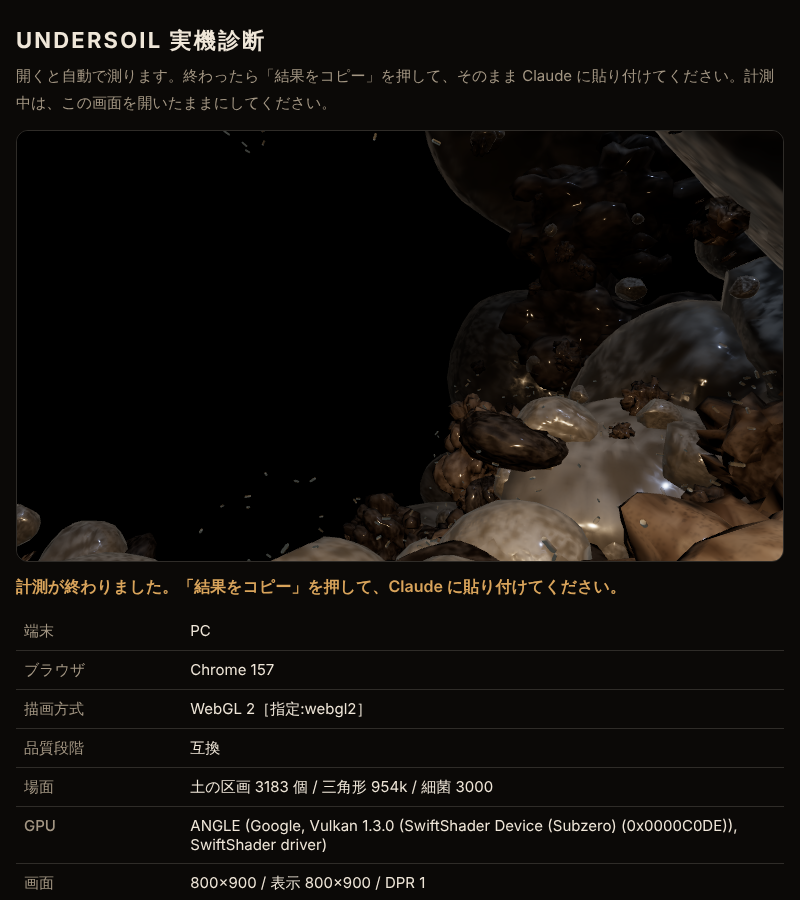
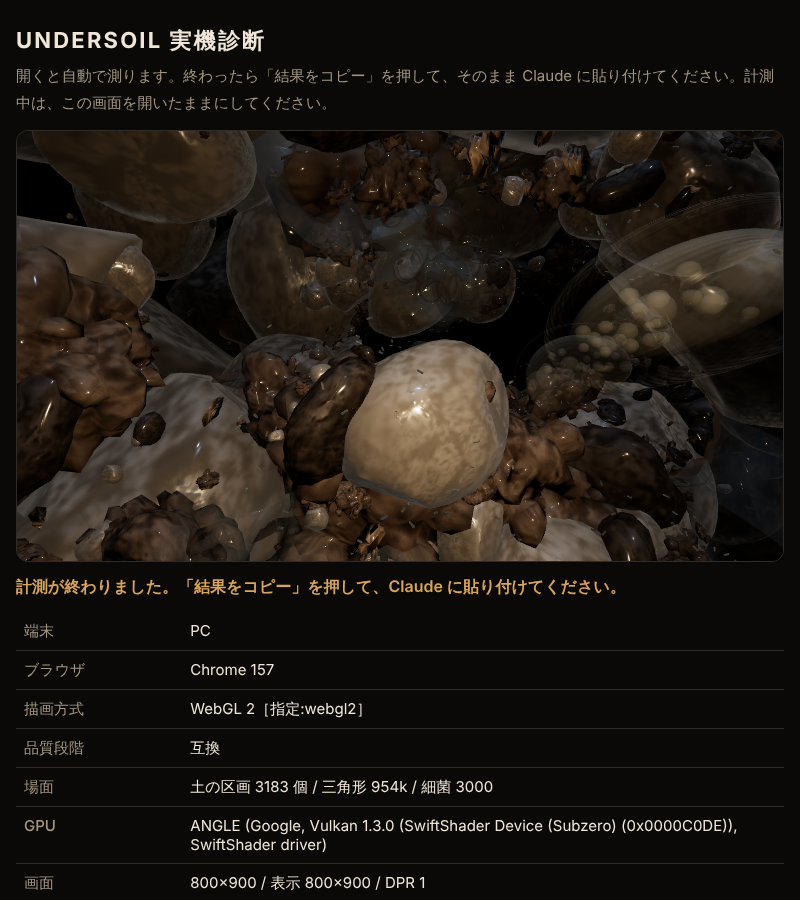
UNDERSOIL: make audio audible on iPad (silent-mode unlock, speaker-range sounds, louder, start chord), diag sound button, keep tour out of unbuilt seed area
Claude-Session: https://claude.ai/code/session_01HXHWaeyj425ipGMnohy3Vo

diff --git a/undersoil/src/audio/engine.ts b/undersoil/src/audio/engine.ts
@@ -42,6 +42,23 @@ function reverbBuffer(ctx: AudioContext, sec: number, damp: number) {
   return buf;
 }
 
+/** iPhone・iPad の Safari では、Web Audio の音は消音モードのときに鳴らない。
+ *  音声セッションの種類を「再生」にすると、消音モードでも鳴る（動画アプリと同じ扱い）。古い OS 向けに、無音の <audio> を流す方法も併用する。 */
+let unlocked = false;
+function unlockIOS() {
+  if (unlocked) return; unlocked = true;
+  try { const as = (navigator as unknown as { audioSession?: { type: string } }).audioSession; if (as) as.type = 'playback'; } catch { /* noop */ }
+  try {
+    // 0.1 秒の無音の WAV（その場で作る）を、くり返し再生する
+    const sr = 8000, n = 800, buf = new ArrayBuffer(44 + n * 2), v = new DataView(buf);
+    const w = (o: number, s: string) => { for (let i = 0; i < s.length; i++) v.setUint8(o + i, s.charCodeAt(i)); };
+    w(0, 'RIFF'); v.setUint32(4, 36 + n * 2, true); w(8, 'WAVE'); w(12, 'fmt '); v.setUint32(16, 16, true); v.setUint16(20, 1, true); v.setUint16(22, 1, true);
+    v.setUint32(24, sr, true); v.setUint32(28, sr * 2, true); v.setUint16(32, 2, true); v.setUint16(34, 16, true); w(36, 'data'); v.setUint32(40, n * 2, true);
+    const el = document.createElement('audio'); el.src = URL.createObjectURL(new Blob([buf], { type: 'audio/wav' })); el.loop = true; el.setAttribute('playsinline', ''); el.volume = 0.01;
+    void el.play().catch(() => { /* 対応していない場合は何もしない */ });
+  } catch { /* noop */ }
+}
+
 export function createAudio(): AudioEngine {
   let ctx: AudioContext | null = null;
   let master: GainNode, music: GainNode, sfx: GainNode, verb: ConvolverNode, verbIn: GainNode;
@@ -50,38 +67,41 @@ export function createAudio(): AudioEngine {
   const api: AudioEngine = {
     muted: false,
     start() {
+      unlockIOS();
       if (ctx) { void ctx.resume(); return; }
       const AC = window.AudioContext ?? (window as unknown as { webkitAudioContext: typeof AudioContext }).webkitAudioContext; if (!AC) return;
       ctx = new AC();
-      master = ctx.createGain(); master.gain.value = api.muted ? 0 : 0.9;
+      master = ctx.createGain(); master.gain.value = api.muted ? 0 : 1.0;
       // 小さな音量でも大事な音が聞こえるように、全体を軽く圧縮する
-      const comp = ctx.createDynamicsCompressor(); comp.threshold.value = -20; comp.ratio.value = 3; comp.attack.value = 0.01; comp.release.value = 0.3;
+      const comp = ctx.createDynamicsCompressor(); comp.threshold.value = -24; comp.ratio.value = 4; comp.attack.value = 0.01; comp.release.value = 0.3;
       master.connect(comp).connect(ctx.destination);
       verb = ctx.createConvolver(); verb.buffer = reverbBuffer(ctx, 3.2, 0.25); verbIn = ctx.createGain(); verbIn.gain.value = 0.5; verbIn.connect(verb).connect(master);
-      music = ctx.createGain(); music.gain.value = 0.55; music.connect(master); music.connect(verbIn);
-      sfx = ctx.createGain(); sfx.gain.value = 0.8; sfx.connect(master); sfx.connect(verbIn);
+      music = ctx.createGain(); music.gain.value = 0.9; music.connect(master); music.connect(verbIn);
+      sfx = ctx.createGain(); sfx.gain.value = 1.0; sfx.connect(master); sfx.connect(verbIn);
       // 土の中の音は、地面を通して聞こえるので高い音が削れる
-      under = ctx.createBiquadFilter(); under.type = 'lowpass'; under.frequency.value = 1400; under.Q.value = 0.3; under.connect(master);
+      under = ctx.createBiquadFilter(); under.type = 'lowpass'; under.frequency.value = 2600; under.Q.value = 0.3; under.connect(master);
       const loop = (buf: AudioBuffer, gain: number, dest: AudioNode, rate = 1) => { const s = ctx!.createBufferSource(); s.buffer = buf; s.loop = true; s.playbackRate.value = rate; const g = ctx!.createGain(); g.gain.value = gain; s.connect(g).connect(dest); s.start(); return g; };
       const brown = noiseBuffer(ctx, 6, 'brown'), pink = noiseBuffer(ctx, 5, 'pink'), white = noiseBuffer(ctx, 4, 'white');
       // 乾いた土：頭上を渡るくぐもった風（低い帯域の雑音が、ゆっくり強弱する）
       dryBed = ctx.createGain(); dryBed.gain.value = 0; dryBed.connect(under);
-      windBp = ctx.createBiquadFilter(); windBp.type = 'bandpass'; windBp.frequency.value = 320; windBp.Q.value = 0.6; windBp.connect(dryBed);
-      loop(brown, 0.9, windBp);
+      windBp = ctx.createBiquadFilter(); windBp.type = 'bandpass'; windBp.frequency.value = 700; windBp.Q.value = 0.5; windBp.connect(dryBed);
+      loop(pink, 1.4, windBp);
       // 湿った土：頭上から響く、くぐもった雨のような水の気配
       wetBed = ctx.createGain(); wetBed.gain.value = 0; wetBed.connect(under);
-      rainLp = ctx.createBiquadFilter(); rainLp.type = 'lowpass'; rainLp.frequency.value = 700; rainLp.connect(wetBed);
-      loop(pink, 0.35, rainLp);
+      rainLp = ctx.createBiquadFilter(); rainLp.type = 'lowpass'; rainLp.frequency.value = 1800; rainLp.connect(wetBed);
+      loop(pink, 0.5, rainLp);
       // 地上：風と、葉ずれ（高めの帯域の雑音）
       surfBed = ctx.createGain(); surfBed.gain.value = 0; surfBed.connect(master);
-      const surfWind = ctx.createBiquadFilter(); surfWind.type = 'lowpass'; surfWind.frequency.value = 600; surfWind.connect(surfBed); loop(brown, 0.5, surfWind, 1.3);
-      leafBp = ctx.createBiquadFilter(); leafBp.type = 'bandpass'; leafBp.frequency.value = 3800; leafBp.Q.value = 0.8; leafBp.connect(surfBed); loop(white, 0.05, leafBp);
+      const surfWind = ctx.createBiquadFilter(); surfWind.type = 'bandpass'; surfWind.frequency.value = 800; surfWind.Q.value = 0.4; surfWind.connect(surfBed); loop(pink, 0.9, surfWind, 1.0);
+      // 開始の合図：鳴っていることがすぐ分かるように、静かな和音を1つ
+      setTimeout(() => { if (ctx) [293.66, 440, 587.33].forEach((f, i) => piano(f, ctx!.currentTime + 0.05 + i * 0.12, 0.22, 5)); }, 300);
+      leafBp = ctx.createBiquadFilter(); leafBp.type = 'bandpass'; leafBp.frequency.value = 3800; leafBp.Q.value = 0.8; leafBp.connect(surfBed); loop(white, 0.09, leafBp);
     },
     setVitality(v) { vit = v; },
     setMode(m) { if (m !== mode) { mode = m; growth = 0; chordDone = false; } },
     setGrowth(g) { growth = g; },
     pause(p) { if (!ctx) return; if (p) void ctx.suspend(); else void ctx.resume(); },
-    setMuted(m) { api.muted = m; if (ctx) master.gain.setTargetAtTime(m ? 0 : 0.9, ctx.currentTime, 0.1); },
+    setMuted(m) { api.muted = m; if (ctx) master.gain.setTargetAtTime(m ? 0 : 1.0, ctx.currentTime, 0.1); },
     chime() {
       // 新しい生き物の紹介：短く上品な2音（鐘のような倍音）
       if (!ctx) return; const t = ctx.currentTime;
@@ -93,8 +113,8 @@ export function createAudio(): AudioEngine {
       gust += dt * 0.13;
       const gustAmt = 0.55 + 0.45 * Math.sin(gust) * Math.sin(gust * 0.37 + 1);
       dryBed.gain.setTargetAtTime(soil * (1 - vit) * 0.5 * gustAmt + 0.0001, t, 0.4);
-      windBp.frequency.setTargetAtTime(240 + 260 * gustAmt, t, 0.6);
-      wetBed.gain.setTargetAtTime(soil * vit * 0.28 + 0.0001, t, 0.6);
+      windBp.frequency.setTargetAtTime(500 + 600 * gustAmt, t, 0.6);
+      wetBed.gain.setTargetAtTime(soil * vit * 0.32 + 0.0001, t, 0.6);
       surfBed.gain.setTargetAtTime((1 - soil) * (0.22 + 0.2 * gustAmt) + 0.0001, t, 0.8);
       leafBp.frequency.setTargetAtTime(3200 + 1600 * gustAmt, t, 0.5);
       if (soil) {

diff --git a/undersoil/src/pages/diag.ts b/undersoil/src/pages/diag.ts
@@ -98,6 +98,12 @@ async function main() {
     ($('copy') as HTMLButtonElement).disabled = false;
     W.__state = { ready: true, done: true, isWebGPU, short, errors };
   }
+  // 音の確認：押すと和音が鳴る。鳴らない場合の原因を切り分けるため、状態を表示する
+  $('snd').addEventListener('click', async () => {
+    const { createAudio } = await import('../audio/engine');
+    const a = (W.__audio as ReturnType<typeof createAudio>) ?? createAudio(); W.__audio = a; a.start(); a.chime();
+    setTimeout(() => { const as = (navigator as unknown as { audioSession?: { type: string } }).audioSession; $('sndState').textContent = `音声：${(a as unknown as { state?: string }).state ?? '開始'}／音声セッション：${as ? as.type : '非対応'}`; }, 600);
+  });
   $('copy').addEventListener('click', async () => {
     const ta = $('short') as HTMLTextAreaElement;
     try { await navigator.clipboard.writeText(ta.value); } catch { ta.select(); document.execCommand('copy'); }

diff --git a/undersoil/src/pages/screen.ts b/undersoil/src/pages/screen.ts
@@ -117,7 +117,7 @@ async function main() {
     const t = fixedT !== null ? Number(fixedT) : now / 1000; const dt = last ? Math.min(0.1, (now - last) / 1000) : 0; last = now;
     if (dbg) { const v = dbg.split(',').map(Number); camera.position.set(v[0], v[1], v[2]); camera.lookAt(v[3], v[4], v[5]); }
     else if (camT !== null) placeOnPath(Number(camT));
-    else if (touring) { tourU = (tourU + dt * 0.012) % 1; placeOnPath(0.02 + 0.9 * (0.5 - 0.5 * Math.cos(tourU * Math.PI * 2))); }
+    else if (touring) { tourU = (tourU + dt * 0.012) % 1; placeOnPath(0.02 + 0.66 * (0.5 - 0.5 * Math.cos(tourU * Math.PI * 2))); /* 奥の種のまわり（まだ作っていない）へは行かない */ }
     else controls.update(dt);
     if (wetQ === null) { demo.update(dt); game.update(dt, t); }
     if (mode === 'surface') {

diff --git a/undersoil/diag/index.html b/undersoil/diag/index.html
@@ -13,12 +13,14 @@
   <canvas id="view"></canvas>
   <div id="status">起動中…</div>
   <table><tbody id="rows"></tbody></table>
+  <p id="sndState" style="color:var(--dim);font-size:14px;margin:10px 0 0"></p>
   <textarea id="short" readonly placeholder="ここに結果が出ます"></textarea>
   <div class="row">
     <button class="btn primary" id="copy" disabled>結果をコピー</button>
     <button class="btn" id="reAuto">自動で測り直す</button>
     <button class="btn" id="reGPU">WebGPU で測る</button>
     <button class="btn" id="reGL">WebGL 2 で測る</button>
+    <button class="btn" id="snd">音を鳴らす</button>
     <a class="btn" href="../">画面版へ</a>
     <a class="btn" href="../vr/">VR 版へ</a>
   </div>

diff --git a/undersoil/Docs/HANDOFF.md b/undersoil/Docs/HANDOFF.md
@@ -46,6 +46,8 @@
 - 「地上の草木の品質が下がる懸念。実物と比較して作ること」→ `REFERENCE/PLANT_PROCESS.md` を定めた。**地上の植物は、この手順を通ってから公開する。**
 - 「音が全くない」→ 音の仕組みを入れた（`src/audio/engine.ts`、GDD の 9）。画面版のみ。VR 版の音、効果音、音楽の層は未着手。
 - 「より現実世界を再現して」→ 地上の場面を写真と見比べて直した：背景のぼけ（PC・モバイル高画質のみ）、細かい土の粒、赤みのある茶色と湿りのまだら、枯れ草・小枝・落ち葉のかけら（`src/game/litter.ts`）、子葉の平たい断面・つやのない質感・縁の色、本葉の向き、茎の地上部を短く。
+- 「iPad で音が聞こえない」（2026-11-22）→ 原因の候補：①iOS の消音モードでは Web Audio が鳴らない ②風と雨を 300Hz 前後の低い音で作っていて、iPad のスピーカーで再生できない。対処：`navigator.audioSession.type = 'playback'` と無音の `<audio>` で消音モードでも鳴るようにし、音域を上げて音量を約2倍にした。開始時に和音が1つ鳴る。実機診断に「音を鳴らす」ボタンを追加。**実機で鳴るかは未確認（持ち主の返事待ち）**。
+- 自動で巡るカメラが、まだ作っていない種のまわり（粒のない空き地）を向いて真っ暗になっていた → 巡る範囲を道の 2〜68% に絞った。
 - 土の中の絵は「いい」との評価。Quest 3 の確認は後日（持ち主）。
 
 ## 既知の問題・未確認
